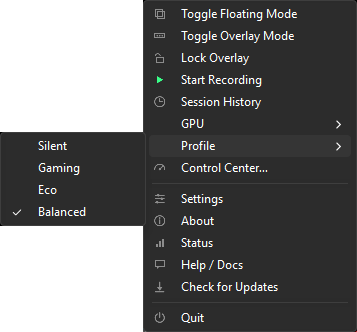
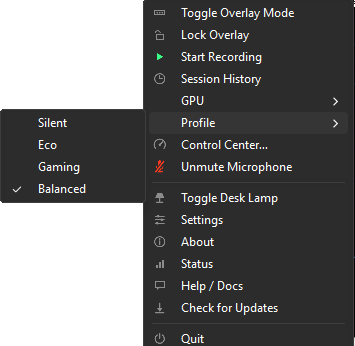
docs(tray): retake the recording and Profile menu screenshots
The owner's screenshots of the menu while recording and with the
Profile submenu open, without Toggle Floating Mode and with the
microphone and desk lamp rows. Other programs' tray icons and the
wallpaper behind the Profile one are cut out (transparent, like the
image it replaces).

Refs #599

diff --git a/website/index.html b/website/index.html
@@ -393,7 +393,7 @@
 
         <div class="cc-row">
           <div class="cc-shot screen-wrap cc-shot--narrow">
-            <img src="images/tray-menue-profile.png" alt="Tray menu with the Profile submenu open, listing Silent, Gaming, Eco and Balanced with a check on the active profile" class="hero-img" loading="lazy">
+            <img src="images/tray-menue-profile.png" alt="Tray menu with the Profile submenu open, listing Silent, Eco, Gaming and Balanced with a check on the active profile" class="hero-img" loading="lazy">
           </div>
           <div class="cc-text">
             <h3>Switch in one click — or let your apps do it</h3>
